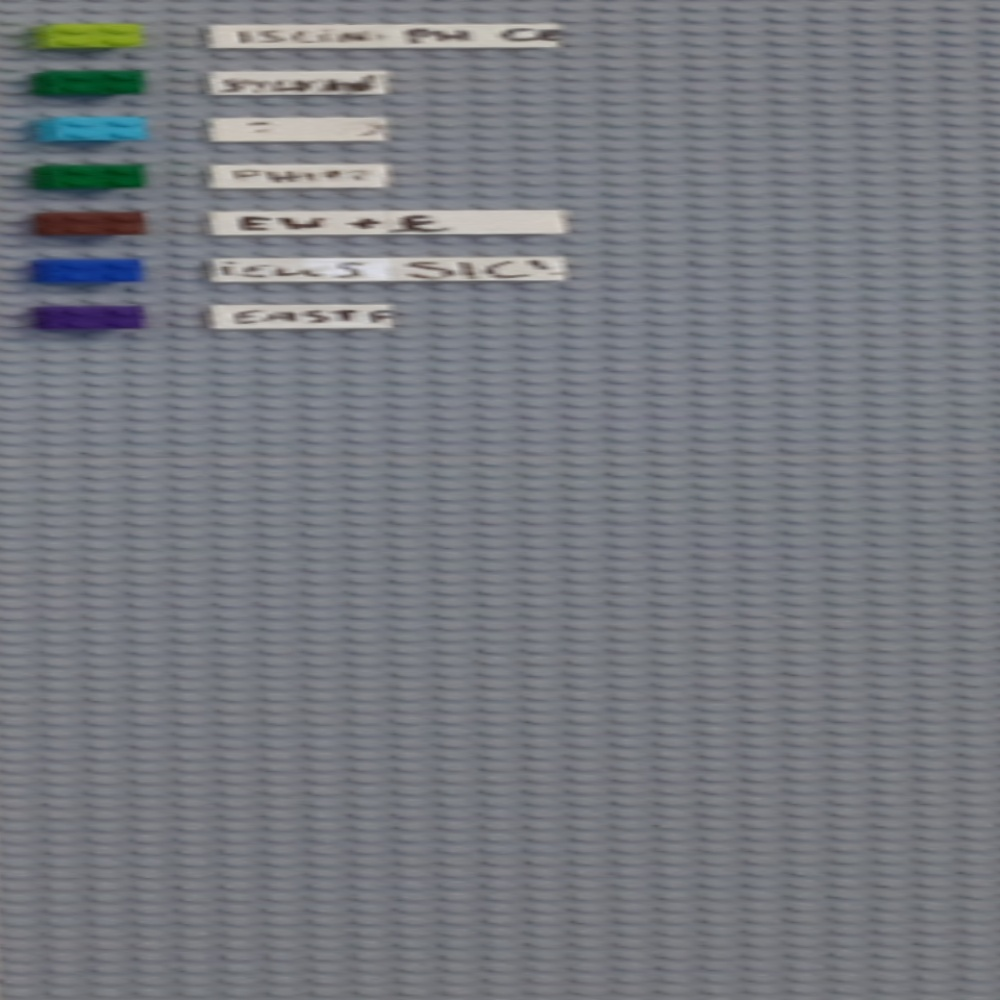
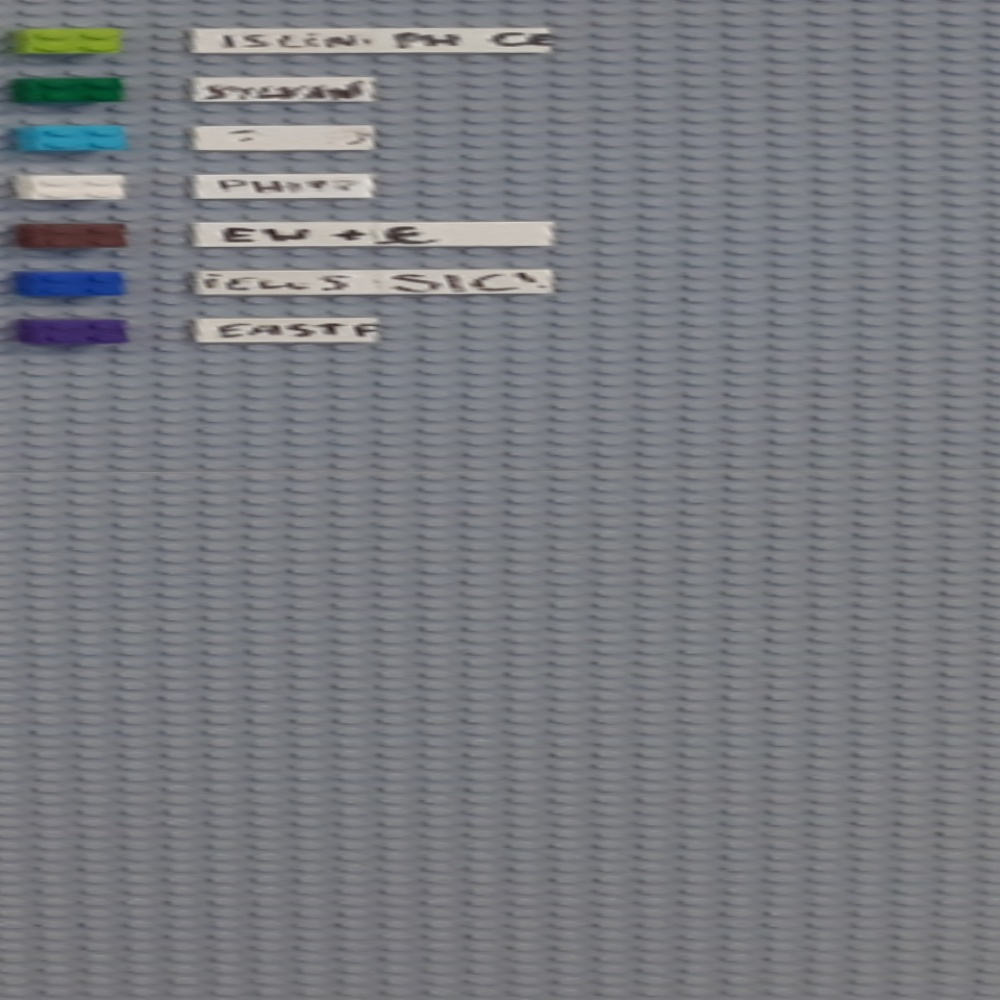
Changes to be committed:

diff --git a/ProjectColorIdentify.py b/ProjectColorIdentify.py
@@ -1,40 +1,84 @@
-#### Code to warp an image
-### from computervisionzone
+##### This contains some code from rasterarray.py, which finds some of the project colors
 
-from PIL import Image
-import cv2
-import numpy as np
-import utlis as utlis
-from utils.colorutils import get_dominant_color
-from utlis import colordifference
-from ProjectColorIdentify import projectColorIdentify
-from gridsplitanddetect import gridsplitanddetect
+def projectColorIdentify():
 
+    import cv2
+    from utils.colorutils import get_dominant_color
+
+    projectNum = 8
+    disty1 = 23
+    distybox = 18
+    disty2 = disty1 + distybox
+    disty = 50
+    xleft = 50
+    xright = 120
+    n = 1
+    projectColors = []
+
+    img = cv2.imread("Scanned/myImage2.jpg")
+
+    for i in range(projectNum):
+        cv2.rectangle(img,(xleft,disty1),(xright,disty2), (255,0,0),2)
+    
+
+        
+        cv2.imwrite("Scanned/projectImage("+str(i)+").jpg",img[disty1:disty2,xleft:xright])
+
+        hsv_image = cv2.imread("Scanned/projectImage("+str(i)+").jpg")
+        hsv_image = cv2.cvtColor(hsv_image, cv2.COLOR_BGR2HSV)
+
+        dom_color = get_dominant_color(hsv_image, k=3)
+        projectColors.append(dom_color)
+
+        disty1 = disty1 + disty
+        disty2 = disty1 + distybox
+
+    cv2.imshow("final_image", img)
+    cv2.waitKey(0)
+    
+    return projectColors
+
+#cv2.imshow('Image Dominant Color', final_image)
+    #cv2.waitKey(0)
+
+'''
+    imgWarpColored = cv2.warpPerspective("Scanned/projectImage("+str(i)+").jpg", matrix, (50, 50))
+    imgWarpColored = imgWarpColored[20:imgWarpColored.shape[0] - 20, 20:imgWarpColored.shape[1] - 20]
+    imgWarpColored = cv2.resize(imgWarpColored,(50,50))
+
+    hsv_image = cv2.cvtColor("Scanned/projectImage("+str(i)+").jpg", cv2.COLOR_BGR2HSV)
+    dom_color = get_dominant_color(hsv_image, k=3)
+    projectColors.append(dom_color)
+    
+    n += 1
+'''
+
+#cv2.imshow("Result", img)
+#cv2.waitKey()
+#print(projectColors)
+
+
+'''
 ###############################################################
-pathImage = "Calendar8.jpg"
 
-#split image into large grey rectangles
-gridsplitanddetect(pathImage)
-
-#get warped image of first week
-pathImage = "Scanned/myImage0.jpg"
+pathImage = "Scanned/myImage2.jpg"
 img = cv2.imread(pathImage)
 
 heightImg = 1000
 widthImg  = 1000
 thres = 20,70
 kernel = np.ones((5, 5))
+projectNum = 6
+k = 1
+coordinategrid = []
 
 img = cv2.resize(img, (widthImg, heightImg))
-projectcolors = projectColorIdentify() #use projectColorIdentify to find the colors of the various projects
-projects = ["lightGreen","darkGreen","lightBlue","white","brown","darkBlue","purple","grey"] #this could be done via user input or image recognition of the writing 
-
 ########################################################################
  
 utlis.initializeTrackbars()
 count=0
  
-if 0 == 0:
+if 0 ==0:
     imgBlank = np.zeros((heightImg,widthImg, 3), np.uint8) # CREATE A BLANK IMAGE FOR TESTING DEBUGING IF REQUIRED
     imgGray = cv2.cvtColor(img, cv2.COLOR_BGR2GRAY) # CONVERT IMAGE TO GRAY SCALE
     imgBlur = cv2.GaussianBlur(imgGray, (5, 5), 1) # ADD GAUSSIAN BLUR
@@ -76,15 +120,14 @@ if 0 == 0:
     else:
         imageArray = ([img,imgGray,imgThreshold,imgContours],
                       [imgBlank, imgBlank, imgBlank, imgBlank])
-
-    # Manually adjust these to define where the lego blocks should be
-    xcoordinatecol1 = 19.0 / 1599.0 * widthImg
+ 
+    xcoordinatecol1 = 100.0 / 1599.0 * widthImg
     blockwidth = 70.0 / 1599.0 * widthImg
-    blockwidthsep = 70.0 / 1599.0 * widthImg
-    blocksepcol = 126.0 / 1599.0 * widthImg
-    ycoordinaterow1 = 40 / 1200.0 * heightImg
+    blockwidthsep = 40.0 / 1599.0 * widthImg
+    blocksepcol = 120.0 / 1599.0 * widthImg
+    ycoordinaterow1 = 69. / 1200.0 * heightImg
     blockheight = 20.0 / 1200.0 * heightImg
-    blockheightsep = 37 / 1200.0 * heightImg
+    blockheightsep = 34 / 1200.0 * heightImg
 
     blockrightone = np.array([[[blockwidthsep + blockwidth, 0]],[[blockwidthsep + blockwidth, 0]],[[blockwidthsep + blockwidth, 0]],[[blockwidthsep + blockwidth, 0]]])
     blockjumpcolumn = np.array([[[blockwidth + blocksepcol, 0]],[[blockwidth + blocksepcol, 0]],[[blockwidth + blocksepcol, 0]],[[blockwidth + blocksepcol, 0]]])
@@ -92,46 +135,27 @@ if 0 == 0:
 
     rowdownone = []
 
-    for i in [1,2,3,4,5,6,7,8,9,10]:
-        rowdownone.append(blockdownone)
-
-    rowdownone = np.array(rowdownone)
-
-    firstrowcoordinates = np.zeros(10)
-    firstrowcoordinates = [blockdownone,blockdownone,blockdownone,blockdownone,blockdownone,blockdownone,blockdownone,blockdownone,blockdownone,blockdownone]
-    for i in [0,2,4,6,8]:
-        firstrowcoordinates[i] = [[[xcoordinatecol1, ycoordinaterow1]],[[xcoordinatecol1 + blockwidth, ycoordinaterow1]],[[xcoordinatecol1, ycoordinaterow1 + blockheight]],[[xcoordinatecol1 + blockwidth, ycoordinaterow1 + blockheight]]] + 0.5* i * blockrightone + 0.5 * i * blockjumpcolumn
-
-    for i in [1,3,5,7,9]:
-        firstrowcoordinates[i] = firstrowcoordinates[i-1] + blockrightone
-
-    firstrowcoordinates = np.array(firstrowcoordinates)
-
-    coordinategrid = []
-
-    for i in range(0,21,1):
-        coordinategrid.append(firstrowcoordinates + i * rowdownone)
+    for i in range(projectNum):
+        coordinategrid.append(ycoordinaterow1 + i *  (blockheightsep + blockheight))
 
     coordinategrid = np.round(np.array(coordinategrid)).astype(int)
 
-    for i in range(0,21,1):
-        for k in range(0,10,1):
-            imgBigContour = utlis.drawRectangle(imgBigContour,np.array(coordinategrid[i][k]),2)
-            biggest = np.array(coordinategrid[i][k])
-            pts1 = np.float32(biggest) # PREPARE POINTS FOR WARP
-            pts2 = np.float32([[0, 0],[widthImg, 0], [0, heightImg],[widthImg, heightImg]]) # PREPARE POINTS FOR WARP
-            matrix = cv2.getPerspectiveTransform(pts1, pts2)
-            imgWarpColored = cv2.warpPerspective(img, matrix, (widthImg, heightImg))
-            imgWarpColored=imgWarpColored[20:imgWarpColored.shape[0] - 20, 20:imgWarpColored.shape[1] - 20]
-            imgWarpColored = cv2.resize(imgWarpColored,(50,50))
-            cv2.imwrite("Scanned/myImage("+str(i)+","+str(k)+").jpg",imgWarpColored)
+    for i in range(1, projectNum):
+        print(i)
+        imgBigContour = utlis.drawRectangle(imgBigContour,np.array(coordinategrid[i]),2)
+        biggest = np.array(coordinategrid[i])
+        pts1 = np.float32(biggest) # PREPARE POINTS FOR WARP
+        pts2 = np.float32([[0, 0],[widthImg, 0], [0, heightImg],[widthImg, heightImg]]) # PREPARE POINTS FOR WARP
+        matrix = cv2.getPerspectiveTransform(pts1, pts2)
+        imgWarpColored = cv2.warpPerspective(img, matrix, (widthImg, heightImg))
+        imgWarpColored=imgWarpColored[20:imgWarpColored.shape[0] - 20, 20:imgWarpColored.shape[1] - 20]
+        imgWarpColored = cv2.resize(imgWarpColored,(50,50))
+        cv2.imwrite("Scanned/myImage("+str(i)+","+str(k)+").jpg",imgWarpColored)
 #####
-
-    # The funtest can be found as an image in the LegoCalendar Folder. It offers a visual representaiton of what the code is doing     
-    for i in range(21):
-        for k in range(10):
-            #print(coordinategrid[i][k])
-            imgBigContour = utlis.drawRectangle(imgBigContour, np.array(coordinategrid[i][k]), 2)
+            
+    for i in range(projectNum):
+        #print(coordinategrid[i][k])
+        imgBigContour = utlis.drawRectangle(imgBigContour, np.array(coordinategrid[i][k]), 2)
     blocks = np.array([[[10, 48]], [[102, 48]], [[10, 82]], [[102, 82]]])
     imgBigContour = utlis.drawRectangle(imgBigContour, blocks, 2)
     cv2.imwrite("Funtest.jpg", imgBigContour)
@@ -141,14 +165,15 @@ if 0 == 0:
 #####
     blocks = np.array([[[10, 48]],[[102, 48]],[[10, 82]],[[102, 82]]])
     imgBigContour = utlis.drawRectangle(imgBigContour,blocks,2)
-    #cv2.imwrite("Funtest.jpg",imgBigContour)
+    cv2.imwrite("Funtest.jpg",imgBigContour)
 
 # using get dominant colour to output dominant colour for each squre- nice output
-allColors = []
+projectColours = []
+allColours = []
 
-if 0 == 0:
-    for i in range(0,21,1):
-        for k in range(0,10,1):
+if 0 ==0:
+    for i in range(projectNum):
+        if 0 == 0:
             imgBigContour = utlis.drawRectangle(imgBigContour,np.array(coordinategrid[i][k]),2)
             biggest = np.array(coordinategrid[i][k])
             pts1 = np.float32(biggest) # PREPARE POINTS FOR WARP
@@ -163,8 +188,9 @@ if 0 == 0:
             # extract dominant color
             # (aka the centroid of the most popular k means cluster)
             dom_color = get_dominant_color(hsv_image, k=3)
-            allColors.append(dom_color)
+            allColours.append(projectColours)
 
+            projectColours.append(dom_color)
             
             # create a square showing dominant color of equal size to input image
             dom_color_hsv = np.full(imgWarpColored.shape, dom_color, dtype='uint8')
@@ -182,19 +208,11 @@ if 0 == 0:
         else:
             final_image = np.vstack((final_image,output_image))
         # show results to screen
-    #cv2.imshow('Image Dominant Color', final_image)
-    #cv2.waitKey(0)
+    cv2.imshow('Image Dominant Color', final_image)
+    cv2.waitKey(0)
+
 
 #### define project colours
-calendarNames = []
-for i in range(len(allColors)):
-    index = colordifference(allColors[i],projectcolors)
-    calendarNames.append(projects[index])
+print(projectColours)
 
-# output list of calendar events
-print(calendarNames)
-
-
-
-
-
+'''

diff --git a/gridsplitanddetect.py b/gridsplitanddetect.py
@@ -1,7 +1,7 @@
 #### Code to warp an image
 ### from computervisionzone
 
-def gridsplitanddetect():
+def gridsplitanddetect(pathImage):
 
     import cv2
     import numpy as np
@@ -11,7 +11,6 @@ def gridsplitanddetect():
 
     ###############################################################
 
-    pathImage = "Calendar7.jpg"
     heightImg = 1000
     widthImg  = 1000
     thres = 40,100
@@ -96,7 +95,7 @@ def gridsplitanddetect():
                   ["Biggest Contour","Warp Prespective","Warp Gray","Adaptive Threshold"]]
      
         stackedImage = utlis.stackImages(imageArray,0.75,lables)
-        cv2.imshow("Result",stackedImage)
+        #cv2.imshow("Result",stackedImage)
      
         # SAVE IMAGE WHEN 's' key is pressed
         if cv2.waitKey() & 0xFF == ord('s'):
